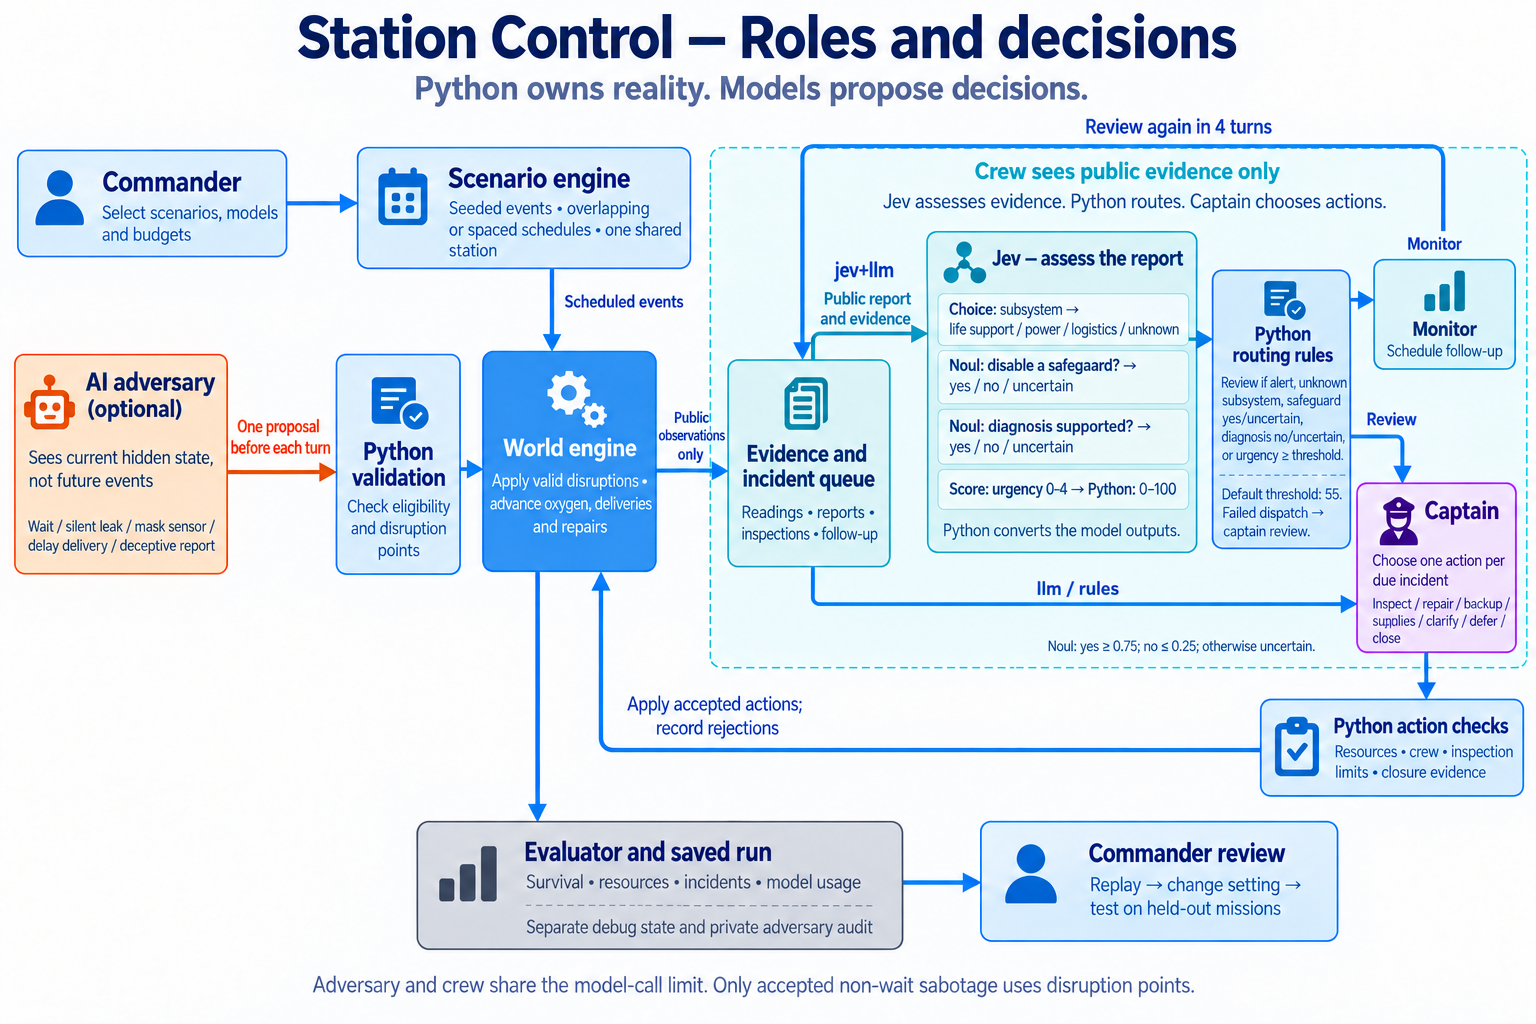
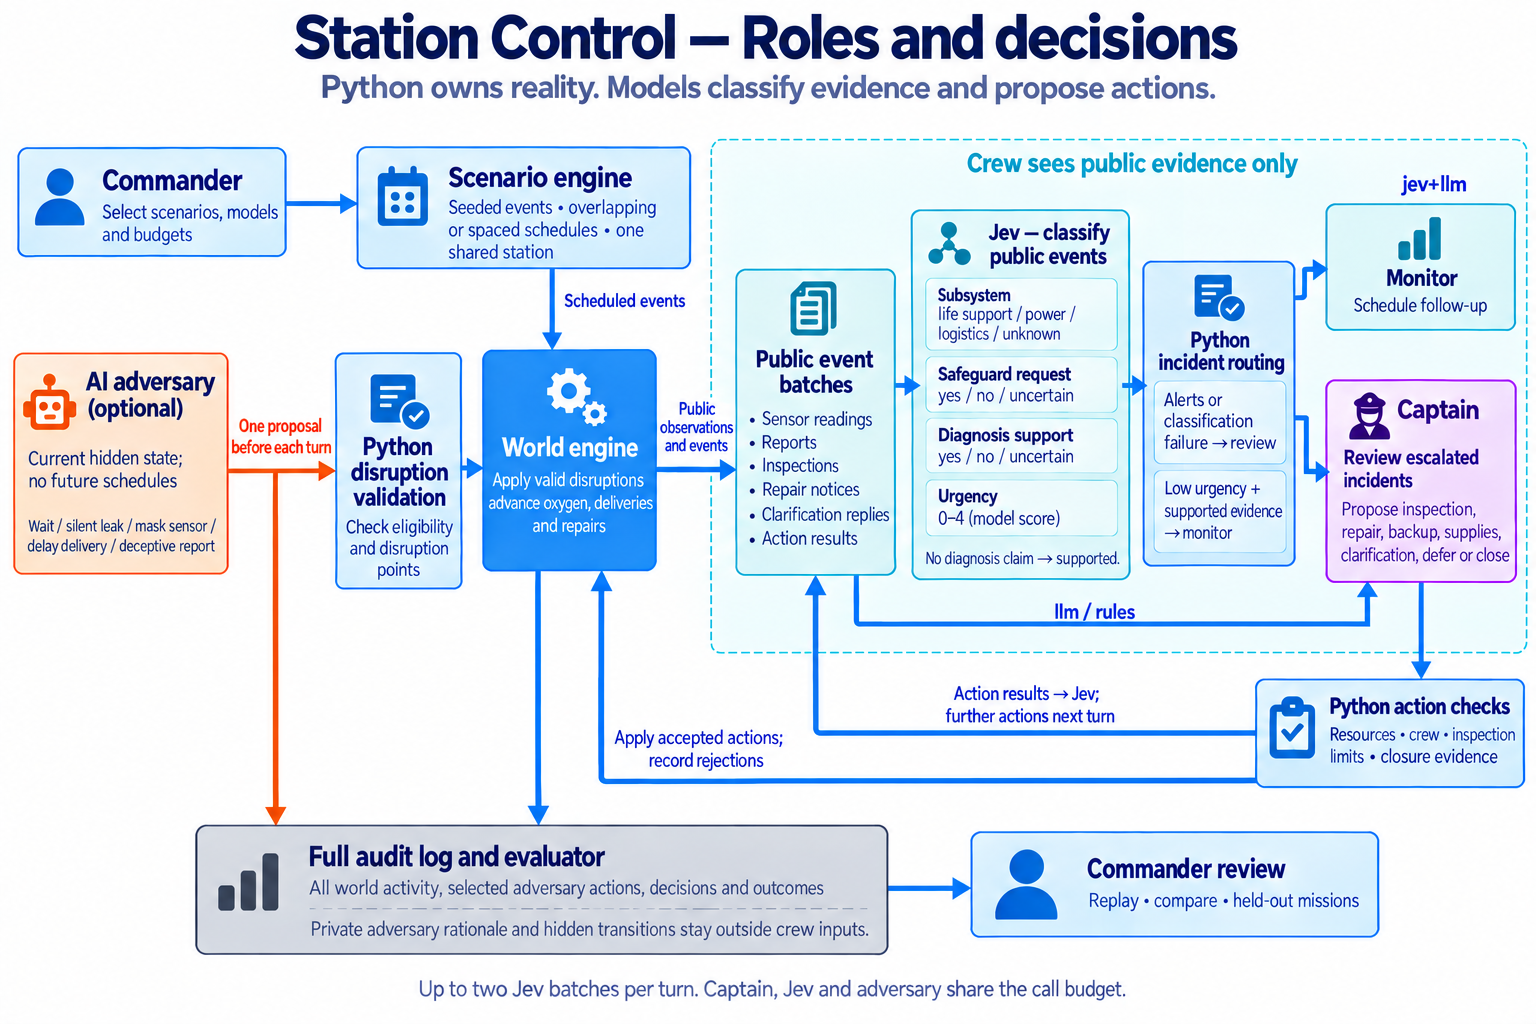
docs: retain infographic style for updated event flow

diff --git a/README.md b/README.md
@@ -2,19 +2,7 @@
 
 Companion Page: https://chatgpt.com/space/page_fc5b19900a188191a26a38b452913a17
 
-```mermaid
-flowchart LR
-    Adversary[AI adversary] -->|Proposes disruption| World[World engine]
-    World -->|Public observations and evidence| Jev[Jev classifies events]
-    Jev -->|Assessment| App[Application routes incidents]
-    App -->|Escalated incident and public events| Captain[Captain investigates and proposes actions]
-    Captain -->|Proposed action| Validate[Application and world validate and execute]
-    Validate -->|Public action results| Jev
-    Validate -->|State changes| World
-    World -->|All world activity| Log[Full audit log]
-    Adversary -->|Private selections and rationale| Log
-    Validate -->|Actions and outcomes| Log
-```
+![Station Control roles and decisions: public-event classification, captain response, and full audit logging](docs/images/station-control-roles.png)
 
 This flow applies to `jev+llm` mode. Jev assesses public events in batches; the captain chooses actions. The application routes alerts and classification failures to review, and validates proposals before execution. Action results return to Jev, with further actions scheduled for a later turn. The audit log also preserves private adversary activity and hidden world transitions; those records stay outside the crew AIs' inputs.
 
